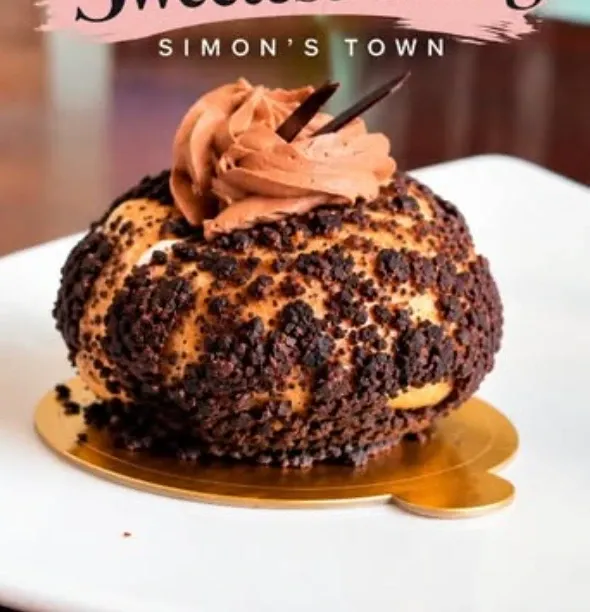
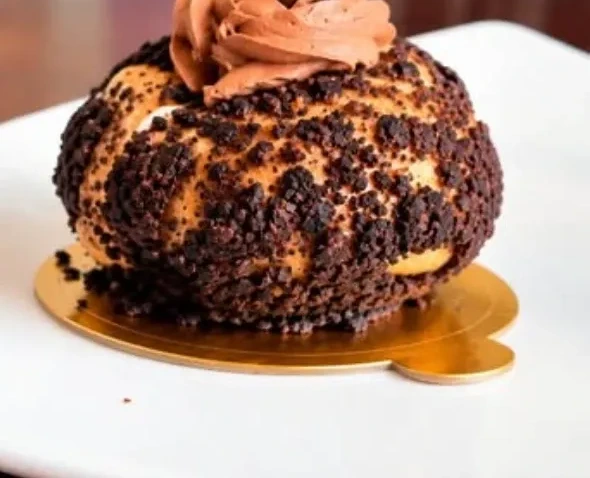
Fix gallery duplicates, custom cakes grid, homepage, and choc dome crop
Custom Cakes grid (now 10 images):
- Removed tst_victoria_sponge.webp and tst_victoria_cake.jpg (both Victoria sponge, duplicates)
- Added tst_pink_girl_cake.jpg, tst_minnie_cake.jpg, tst_green_drip_cake.jpg as custom cakes

Gallery (duplicates removed, moved images removed):
- Removed tst_pink_girl_cake, tst_minnie_cake, tst_green_drip_cake (now in Custom Cakes grid)
- Removed tst_strawberry_cupcakes.jpg and tst_pink_cupcakes.webp (cupcake duplicates)
- Removed tst_chocolate_slice.jpg and tst_victoria_sponge.webp (duplicates)
- Removed tst_choc_layer_cake.jpg (appears in Custom Cakes grid)

Homepage:
- Custom Cake Studio section now uses tst_60th_cake.jpg

Chocolate dome:
- Cropped top 22% to remove Simon's Town Instagram text overlay

diff --git a/src/pages/GalleryPage.jsx b/src/pages/GalleryPage.jsx
@@ -3,7 +3,6 @@ import { motion } from 'framer-motion'
 const photos = [
   { src: '/images/tst_shop_shelf.webp',             alt: 'The shop display at 82 St George\'s Street',                                 caption: 'The shop, 82 St George\'s Street'        },
   { src: '/images/tst_drip_cake.jpg',               alt: 'Pink drip celebration cake with macarons and fresh berries',                  caption: 'Pink drip cake'                          },
-  { src: '/images/tst_choc_layer_cake.jpg',         alt: 'Layered chocolate celebration cake',                                          caption: 'Chocolate layer cake'                    },
   { src: '/images/tst_lemon_loaf.jpg',              alt: 'Lemon and blueberry loaf cake with lemon glaze, sliced',                     caption: 'Lemon and blueberry loaf'                },
   { src: '/images/tst_naked_cake.jpg',              alt: 'Naked celebration cake layered with fresh fruit and cream',                   caption: 'Naked celebration cake'                  },
   { src: '/images/tst_meringue_pops.jpg',           alt: 'Pink and white meringue pops on wooden sticks laid out in the kitchen',      caption: 'Meringue pops, fresh from the kitchen'   },
@@ -21,28 +20,21 @@ const photos = [
   { src: '/images/tst_passionfruit_domes.jpg',      alt: 'Passionfruit mirror glaze individual entremets',                            caption: 'Passionfruit entremets'                  },
   { src: '/images/tst_caramel_tart.webp',           alt: 'Caramel tart with glazed finish',                                           caption: 'Caramel tart'                            },
   { src: '/images/tst_easter_cupcakes.jpg',         alt: 'Easter nest chocolate cupcakes with pastel candy eggs on top',              caption: 'Easter nest cupcakes'                    },
-  { src: '/images/tst_victoria_sponge.webp',        alt: 'Victoria sponge dusted with icing sugar',                                   caption: 'Classic victoria sponge'                 },
   { src: '/images/tst_choc_dome.webp',              alt: 'Chocolate dome dessert with chocolate glaze',                               caption: 'Chocolate dome'                          },
   { src: '/images/tst_passionfruit_cheesecake2.jpg', alt: 'Passionfruit cheesecake with cream rosettes',                             caption: 'Passionfruit cheesecake'                 },
   { src: '/images/tst_choc_eggs.jpg',               alt: 'Gold dusted dark chocolate eggs arranged on a baking mat',                  caption: 'Handmade chocolate eggs'                 },
   { src: '/images/tst_ig_01.jpg',                   alt: 'White chocolate dome dessert from the patisserie',                          caption: 'Something special'                       },
-  { src: '/images/tst_strawberry_cupcakes.jpg',     alt: 'Strawberry cupcakes on a cake stand',                                       caption: 'Strawberry cupcakes'                     },
   { src: '/images/tst_catering_display.webp',       alt: 'Pastry and cake display arranged for an event',                            caption: 'Catering display'                        },
   { src: '/images/tst_fruit_tart.webp',             alt: 'Fresh fruit tart with custard and seasonal berries',                        caption: 'Fresh fruit tart'                        },
   { src: '/images/tst_brownies.jpg',                alt: 'Freshly baked chocolate brownies',                                          caption: 'Freshly baked brownies'                  },
   { src: '/images/tst_ig_02.jpg',                   alt: 'Afternoon tea spread with scones and pastries',                             caption: 'Afternoon tea spread'                    },
-  { src: '/images/tst_pink_cupcakes.webp',          alt: 'Pink frosted cupcakes from the patisserie counter',                         caption: 'Pink cupcakes'                           },
   { src: '/images/tst_savoury_catering.jpg',        alt: 'Large savoury catering platters with sandwiches, salmon bites and pastries', caption: 'Savoury catering platters'             },
   { src: '/images/tst_catering.webp',               alt: 'Tiered stand of tarts, brownies and pastries',                             caption: 'Tiered pastry stand'                     },
   { src: '/images/tst_linzer_cookies.webp',         alt: 'Buttery linzer jam star cookies laid out fresh',                           caption: 'Jam star cookies'                        },
   { src: '/images/tst_choc_cake.jpg',               alt: 'Layered chocolate cake slice showing mousse filling',                      caption: 'Chocolate mousse cake'                   },
-  { src: '/images/tst_chocolate_slice.jpg',         alt: 'Chocolate slice from the display counter',                                  caption: 'Chocolate slice'                         },
   { src: '/images/tst_caramel_tart.jpg',            alt: 'Individual caramel tarts on a baking tray',                               caption: 'Caramel tarts'                           },
   { src: '/images/tst_event_spread.jpg',            alt: 'Tiered catering display for an event',                                     caption: 'Event catering display'                  },
   { src: '/images/tst_savoury_quiche.jpg',          alt: 'Mini quiches and sausage rolls on a platter',                              caption: 'Savoury bites'                           },
-  { src: '/images/tst_pink_girl_cake.jpg',          alt: 'Pink drip celebration cake with macarons and white flowers',                  caption: "It's a Girl celebration cake"            },
-  { src: '/images/tst_minnie_cake.jpg',             alt: 'Two tier Minnie Mouse fondant cake in pink and black',                       caption: 'Minnie Mouse celebration cake'           },
-  { src: '/images/tst_green_drip_cake.jpg',         alt: 'Green drip cake with macarons and caramel popcorn topping',                  caption: 'Green drip cake'                         },
   { src: '/images/tst_shakshuka.jpg',               alt: 'Shakshuka with poached eggs in a copper pan served with toasted bread',      caption: 'Shakshuka with toasted bread'            },
   { src: '/images/tst_orange_glaze_cake.jpg',       alt: 'Orange mirror glaze entremet with chocolate decorations',                    caption: 'Orange mirror glaze entremet'            },
 ]

diff --git a/src/pages/CustomCakesPage.jsx b/src/pages/CustomCakesPage.jsx
@@ -105,15 +105,16 @@ export default function CustomCakesPage() {
 
           <div className="grid grid-cols-2 sm:grid-cols-3 gap-4">
             {[
-              { src: '/images/tst_drip_cake.jpg',         alt: 'Pink drip celebration cake with macarons and fresh berries',   pos: 'center 30%' },
-              { src: '/images/tst_choc_lace_cake.jpg',    alt: 'Chocolate cake with lace collar and fresh berries',            pos: 'center 40%' },
-              { src: '/images/tst_naked_cake.jpg',        alt: 'Naked celebration cake layered with fresh fruit and cream',    pos: 'center 40%' },
-              { src: '/images/tst_choc_layer_cake.jpg',   alt: 'Layered chocolate celebration cake',                           pos: 'center 30%' },
-              { src: '/images/tst_victoria_sponge.webp',  alt: 'Victoria sponge celebration cake dusted with icing sugar',    pos: 'center 30%' },
-              { src: '/images/tst_victoria_cake.jpg',     alt: 'Victoria sponge with fresh berry topping',                    pos: 'center 25%' },
-              { src: '/images/tst_white_choc_dome.jpg',   alt: 'White chocolate dome dessert with fresh berries',             pos: 'center 30%' },
-              { src: '/images/tst_60th_cake.jpg',         alt: 'Naked 60th birthday cake with baby\'s breath florals and gold candles', pos: 'center 30%' },
-              { src: '/images/tst_purple_birthday_cake.jpg', alt: 'Purple and pink birthday cake with cupcakes, macarons and gold spheres', pos: 'center 40%' },
+              { src: '/images/tst_drip_cake.jpg',              alt: 'Pink drip celebration cake with macarons and fresh berries',              pos: 'center 30%' },
+              { src: '/images/tst_choc_lace_cake.jpg',         alt: 'Chocolate cake with lace collar and fresh berries',                     pos: 'center 40%' },
+              { src: '/images/tst_naked_cake.jpg',             alt: 'Naked celebration cake layered with fresh fruit and cream',              pos: 'center 40%' },
+              { src: '/images/tst_choc_layer_cake.jpg',        alt: 'Layered chocolate celebration cake',                                    pos: 'center 30%' },
+              { src: '/images/tst_white_choc_dome.jpg',        alt: 'White chocolate dome dessert with fresh berries',                       pos: 'center 30%' },
+              { src: '/images/tst_60th_cake.jpg',              alt: 'Naked 60th birthday cake with baby\'s breath florals and gold candles',  pos: 'center 30%' },
+              { src: '/images/tst_purple_birthday_cake.jpg',   alt: 'Purple and pink birthday cake with cupcakes, macarons and gold spheres', pos: 'center 40%' },
+              { src: '/images/tst_pink_girl_cake.jpg',         alt: 'Pink drip celebration cake with macarons and white flowers',             pos: 'center 30%' },
+              { src: '/images/tst_minnie_cake.jpg',            alt: 'Two tier Minnie Mouse fondant cake in pink and black',                  pos: 'center 30%' },
+              { src: '/images/tst_green_drip_cake.jpg',        alt: 'Green drip cake with macarons and caramel popcorn topping',             pos: 'center 40%' },
             ].map(({ src, alt, pos }, i) => (
               <motion.div
                 key={src}

diff --git a/src/pages/HomePage.jsx b/src/pages/HomePage.jsx
@@ -221,7 +221,7 @@ export default function HomePage() {
               From birthdays and baby showers to weddings and anniversaries. Come in and speak to us, or fill in the form and we will get back to you.
             </p>
             <div className="relative rounded-3xl overflow-hidden flex-1 min-h-[340px] shadow-md">
-              <img src="/images/tst_choc_layer_cake.jpg" alt="Custom celebration cake"
+              <img src="/images/tst_60th_cake.jpg" alt="Custom celebration cake"
                 className="absolute inset-0 w-full h-full object-cover"
                 style={{ objectPosition: 'center 30%' }} />
               <div className="absolute inset-0 bg-gradient-to-t from-espresso/40 via-transparent to-transparent" />
